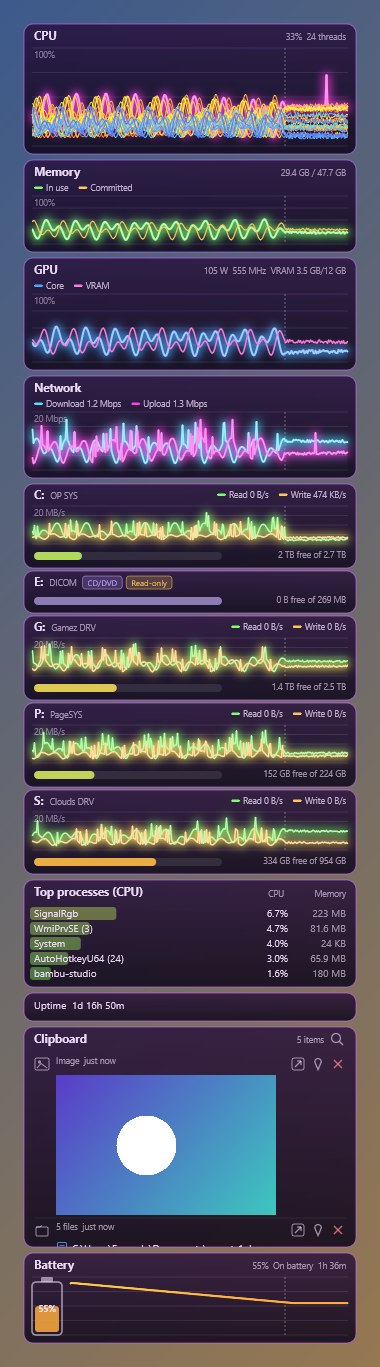
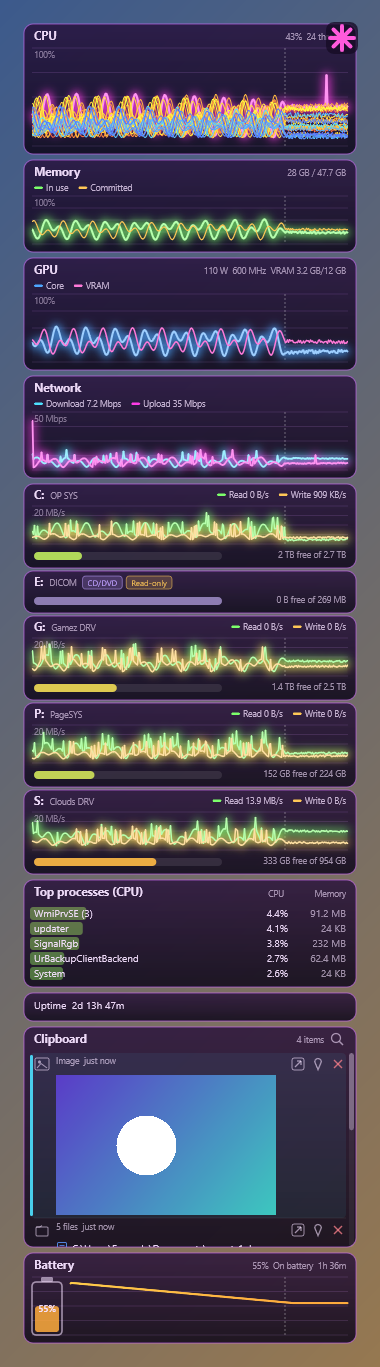
Settings gear + About page; bring README and screenshots back in sync
The widget never activates by design (WS_EX_NOACTIVATE), so Settings was
only reachable by right-clicking or relaunching the app - not discoverable.
A gear now appears at the top-right corner, overlaid on whatever panel is
first, only while the mouse is over the widget; clicking it opens Settings.
It's solid-filled and accent-coloured on purpose (bigger and more noticeable
per feedback after the first pass), unlike every other glyph in the app,
since it's a primary action rather than a status indicator.

Settings gains an About page: version (from the csproj), author, a link back
to the GitHub repo, and license.

README and both docs screenshots hadn't been touched since before the
scroll-wheel clipboard selection and this round landed - updated the
Clipboard section, the "how to reach Settings" paragraph, the Settings page
list, and the test count (83 -> 87), and regenerated both screenshots.

diff --git a/src/Glassy.App/SettingsForm.cs b/src/Glassy.App/SettingsForm.cs
@@ -1,3 +1,4 @@
+using System.Diagnostics;
 using System.Globalization;
 using Glassy.Core;
 
@@ -30,7 +31,7 @@ public sealed class SettingsForm : Form
             e.Graphics.FillRectangle(new SolidBrush(e.State.HasFlag(DrawItemState.Selected) ? Color.FromArgb(90, 50, 130) : Bg2), e.Bounds);
             TextRenderer.DrawText(e.Graphics, nav.Items[e.Index].ToString(), nav.Font, new Rectangle(e.Bounds.X + 12, e.Bounds.Y, e.Bounds.Width - 12, e.Bounds.Height), Fg, TextFormatFlags.VerticalCenter | TextFormatFlags.Left);
         };
-        nav.Items.Add("General"); foreach (var k in Kinds) nav.Items.Add(PageName(k));
+        nav.Items.Add("General"); foreach (var k in Kinds) nav.Items.Add(PageName(k)); nav.Items.Add("About");
         host.Dock = DockStyle.Fill; host.AutoScroll = true; host.BackColor = Bg;
         Controls.Add(host); Controls.Add(nav);
         nav.SelectedIndexChanged += (_, _) => ShowPage(nav.SelectedIndex);
@@ -40,15 +41,15 @@ public sealed class SettingsForm : Form
     /// <summary>Headless check (--selftest): builds every page against live data and returns how many were built.</summary>
     internal int BuildAllPages()
     {
-        for (int i = 0; i <= Kinds.Length; i++) ShowPage(i);
-        return Kinds.Length + 1;
+        for (int i = 0; i <= Kinds.Length + 1; i++) ShowPage(i);
+        return Kinds.Length + 2;
     }
 
     void ShowPage(int i)
     {
         foreach (Control c in host.Controls) c.Dispose();
         host.Controls.Clear();
-        host.Controls.Add(i == 0 ? GeneralPage() : KindPage(Kinds[i - 1]));
+        host.Controls.Add(i == 0 ? GeneralPage() : i == Kinds.Length + 1 ? AboutPage() : KindPage(Kinds[i - 1]));
     }
 
     // ------------------------------------------------------------ control helpers
@@ -159,6 +160,23 @@ public sealed class SettingsForm : Form
         stack.Controls.Add(page);
         stack.Controls.Add(Heading("General"));
         // Dock.Top stacks in reverse add order, so the heading added last ends up first.
+        return stack;
+    }
+
+    // ------------------------------------------------------------ About page
+    Control AboutPage()
+    {
+        var stack = new Panel { Dock = DockStyle.Top, AutoSize = true };
+        var t = Table();
+        var version = System.Reflection.Assembly.GetExecutingAssembly().GetName().Version;
+        Row(t, "Version", new Label { Text = version != null ? $"{version.Major}.{version.Minor}.{version.Build}" : "dev", AutoSize = true });
+        Row(t, "Author", new Label { Text = "Bart Strauss", AutoSize = true });
+        var link = new LinkLabel { Text = "github.com/SuperBartimus/GlassySystemGadget", AutoSize = true, LinkColor = Color.FromArgb(180, 140, 255) };
+        link.Click += (_, _) => { try { Process.Start(new ProcessStartInfo("https://github.com/SuperBartimus/GlassySystemGadget") { UseShellExecute = true }); } catch (System.ComponentModel.Win32Exception) { } };
+        Row(t, "GitHub", link);
+        Row(t, "License", new Label { Text = "MIT", AutoSize = true });
+        stack.Controls.Add(t);
+        stack.Controls.Add(Heading("About"));
         return stack;
     }
 

diff --git a/src/Glassy.App/D2DRenderer.cs b/src/Glassy.App/D2DRenderer.cs
@@ -51,6 +51,10 @@ public sealed class D2DRenderer : IDisposable
     public float ClipScroll { get; set; }
     public bool ClipSearchVisible { get; set; }
     public string ClipSearchQuery { get; set; } = "";
+    /// <summary>The Settings gear, top-left, overlaid on whatever panel happens to be first - only while the
+    /// mouse is over the widget (MainWindow sets this from hover state), since the widget never becomes the
+    /// active window and so has no title bar of its own to put a settings button on.</summary>
+    public bool ShowSettingsGear { get; set; }
 
     static readonly (byte r, byte g, byte b) TitleCol = (245, 225, 255);
 
@@ -165,6 +169,7 @@ public sealed class D2DRenderer : IDisposable
                 dc.PopAxisAlignedClip();
             }
             foreach (var p in e.Panels) Content(p, W, e);
+            if (ShowSettingsGear) DrawSettingsGear(W);
             dc.EndDraw();
         }
         finally { foreach (var x in geos) { x.Line?.Dispose(); x.Area?.Dispose(); } }
@@ -732,6 +737,30 @@ public sealed class D2DRenderer : IDisposable
         var center = new Vector2(cx + 6, cy + 6);
         dc.DrawEllipse(new Ellipse(center, 4.5f, 4.5f), br, 1.3f);
         dc.DrawLine(new Vector2(cx + 9.5f, cy + 9.5f), new Vector2(cx + 13, cy + 13), br, 1.5f);
+    }
+
+    static readonly (byte r, byte g, byte b) GearAccent = (255, 90, 220);
+
+    /// <summary>A solid, filled gear/sprocket (thick radial teeth + filled body), overlaid at the widget's
+    /// top-right corner - a backing plate keeps it legible over whatever panel content happens to be underneath.
+    /// Solid and accent-coloured on purpose (Bart: "make it bigger... colored/solid to make it more noticeable"),
+    /// unlike every other glyph in the app, which are all thin outlines - this one is a primary action, not a
+    /// passive status indicator, and needs to read as a button even glanced at quickly.</summary>
+    void DrawSettingsGear(float W)
+    {
+        float size = Engine.GearSize;
+        float x = W - Engine.GearMargin - size, y = Engine.GearMargin;
+        float cx = x + size / 2, cy = y + size / 2, rOuter = size / 2, rBody = rOuter - 7f;
+        dc.FillRoundedRectangle(new RoundedRectangle(new RawRectF(x - 4, y - 4, x + size + 4, y + size + 4), 8, 8), Br(20, 10, 35, 0.75f));
+        var br = Br(GearAccent);
+        for (int i = 0; i < 8; i++)
+        {
+            double a = i * Math.PI / 4;
+            var inner = new Vector2(cx + (float)(Math.Cos(a) * (rBody - 1)), cy + (float)(Math.Sin(a) * (rBody - 1)));
+            var outer = new Vector2(cx + (float)(Math.Cos(a) * rOuter), cy + (float)(Math.Sin(a) * rOuter));
+            dc.DrawLine(inner, outer, br, 4f, roundStroke);
+        }
+        dc.FillEllipse(new Ellipse(new Vector2(cx, cy), rBody, rBody), br);
     }
 
     // ponytail: a real per-extension OS icon (SHGetFileInfo -> Icon.FromHandle -> GDI+ -> premultiply -> ID2D1Bitmap

diff --git a/src/Glassy.App/MainWindow.cs b/src/Glassy.App/MainWindow.cs
@@ -28,6 +28,7 @@ public sealed class MainWindow : Form
     };
     float clipScroll;
     bool clipSearchVisible;
+    bool hoveringWidget;
 
     public MainWindow(AppConfig cfg, string cfgPath)
     {
@@ -195,6 +196,7 @@ public sealed class MainWindow : Form
         {
             renderer.Resize(cfg.Global.Width, engine.TotalHeight, DeviceDpi / 96f);
             renderer.ClipScroll = clipScroll; renderer.ClipSearchVisible = clipSearchVisible; renderer.ClipSearchQuery = clipSearch.Text;
+            renderer.ShowSettingsGear = hoveringWidget;
             renderer.Render(engine, cfg.Global);
             renderer.CopyTo(bits);
             if (!Present() && !presentLogged) { presentLogged = true; AppLog.Write($"UpdateLayeredWindow failed, Win32 error {Marshal.GetLastWin32Error()}"); }
@@ -219,9 +221,25 @@ public sealed class MainWindow : Form
     protected override void OnMouseDown(MouseEventArgs e)
     {
         base.OnMouseDown(e);
+        if (e.Button == MouseButtons.Left && hoveringWidget && GearHit(e.Location)) { OpenSettings(); return; }
         if (e.Button == MouseButtons.Left && HandleClipboardClick(e.Location)) return;
         if (e.Button != MouseButtons.Left || cfg.Global.LockPosition || cfg.Global.Dock != DockEdge.None) return;
         dragging = true; dragStart = Cursor.Position; posStart = pos; Capture = true;
+    }
+
+    /// <summary>The widget never becomes the active window (it's WS_EX_NOACTIVATE on purpose - see the scroll-
+    /// selection feature), so there's no title bar to put a Settings button on. Instead a gear appears at the
+    /// top-left corner, overlaid on whatever panel happens to be first, only while the mouse is actually over the
+    /// widget - discoverable without needing a permanent icon competing with the panels for attention.</summary>
+    protected override void OnMouseEnter(EventArgs e) { base.OnMouseEnter(e); hoveringWidget = true; RenderFrame(); }
+    protected override void OnMouseLeave(EventArgs e) { base.OnMouseLeave(e); hoveringWidget = false; RenderFrame(); }
+
+    bool GearHit(Point physical)
+    {
+        float s = DeviceDpi / 96f; float dipX = physical.X / s, dipY = physical.Y / s;
+        float x = cfg.Global.Width - Engine.GearMargin - Engine.GearSize;
+        return dipX >= x && dipX < x + Engine.GearSize
+            && dipY >= Engine.GearMargin && dipY < Engine.GearMargin + Engine.GearSize;
     }
 
     /// <summary>The items currently shown and their measured row heights - reads the renderer's own cache, so

diff --git a/src/Glassy.App/Program.cs b/src/Glassy.App/Program.cs
@@ -109,7 +109,7 @@ static class Program
         var demoBattery = demo ? new FakeBatteryProvider { Value = new BatteryStatus { Present = true, Charging = false, OnAc = false, Percent = 55, TimeRemaining = TimeSpan.FromHours(1.6) } } : null;
         using var engine = new Engine(cfg, configPath: cfgPath, battery: demoBattery); using var r = new D2DRenderer(ForceWarp);
         for (int i = 0; i < 6; i++) { engine.Tick(); Thread.Sleep(cfg.Global.TickMs); }
-        if (demo) { engine.DemoFill(); DemoFillClipboard(engine); }
+        if (demo) { engine.DemoFill(); DemoFillClipboard(engine); r.ShowSettingsGear = true; }   // showcase the hover-only Settings gear in demo shots
         r.Resize(cfg.Global.Width, engine.TotalHeight, scale); r.Render(engine, cfg.Global);
         IntPtr buf = Marshal.AllocHGlobal(r.PxW * r.PxH * 4);
         try

diff --git a/src/Glassy.Core/Engine.cs b/src/Glassy.Core/Engine.cs
@@ -27,6 +27,8 @@ public sealed class PanelRuntime
 public sealed class Engine : IDisposable
 {
     public const float PanelGap = 6, SectionGap = 3, Margin = 4, RowProc = 15, Header = 26, LegendRowH = 12, DriveHeader = 22, DriveBar = 16;
+    /// <summary>The Settings gear overlay, top-right corner of the widget - independent of any one panel's own layout.</summary>
+    public const float GearSize = 24, GearMargin = 6;
     public const float ClipHeader = 26, ClipIcon = 16, ClipIconTopPad = 3, ClipMinHeight = 90;
     /// <summary>Row layout, top to bottom: the icon strip (badge + type/age text + open/pin/delete, ClipIconTopPad
     /// to ClipBodyTop), then the wrapped-text/file-list/image body (ClipLineH per line, or an image's scaled

diff --git a/README.md b/README.md
@@ -31,14 +31,20 @@ Panels (each its own graph group, reorderable, individually switchable):
 - Clipboard: a scrollable history of what you copy (text, formatted text, images,
   file paths from cut/copy in Explorer), newest first, with search, per-item pin
   and delete, and a button per row to open the item in whatever app the OS has
-  associated with its type. Click a row to put it back on the clipboard (you
-  still press Ctrl+V yourself; nothing types into another window for you).
-  Captured items are excluded automatically when the source app marks them
-  "exclude from clipboard history" (most password managers do this). Text
-  wraps across multiple lines (word-wrapped, ending in `…` if it still
-  overflows the per-panel line cap); a file list shows each path word-wrapped
-  on its own lines with a small tinted type glyph, using the row's full width;
-  an image shows an actual scaled thumbnail.
+  associated with its type. Hover the panel and scroll - no click, no bringing
+  the widget to the foreground - to move a persistent selection one row at a
+  time; each row you land on is immediately restored to the OS clipboard (you
+  still press Ctrl+V yourself; nothing types into another window for you). The
+  clip currently on the clipboard is marked with a coloured accent bar, and a
+  new capture auto-selects itself and jumps the list to the top. A row can
+  still be clicked directly, and a configurable scrollbar (0 hides it) shows
+  where you are in a long history. Captured items are excluded automatically
+  when the source app marks them "exclude from clipboard history" (most
+  password managers do this). Text wraps across multiple lines (word-wrapped,
+  ending in `…` if it still overflows the per-panel line cap); a file list
+  shows each path word-wrapped on its own lines with a small tinted type
+  glyph, using the row's full width; an image shows an actual scaled
+  thumbnail.
 
 Memory, GPU, Network and the drive graphs carry a tiny legend of the lines that
 are switched on (network and drives include the current values).
@@ -86,9 +92,11 @@ apphost). Do not enable `UseAppHost`. To rebuild, exit the widget first (right
 click, Exit): a running widget locks the DLLs.
 
 Config lives in `%AppData%\GlassySystemGadget\config.json` (created on first
-exit or first settings change). Launching the app a second time opens Settings
-in the running widget. Right-click the widget for Settings, Lock position,
-Reset position and Exit.
+exit or first settings change). Hover the widget and a settings gear appears
+in the top-right corner (the widget deliberately never takes focus, so this
+is the discoverable way in without right-clicking). Launching the app a
+second time also opens Settings in the running widget. Right-click the widget
+for Settings, Lock position, Reset position and Exit.
 
 ## Settings
 
@@ -102,9 +110,11 @@ Reset position and Exit.
   show-activity / show-space-bar switches; Top processes adds rows, sort and the
   percentage at which the bar is full and red (default 25% of total CPU);
   Clipboard adds items kept, image size cap, capture sound (system or a .wav you
-  pick), restore-last-item-on-startup, whether the search box starts open, and a
-  "clear history (keep pinned)" button; Battery adds only which side its glyph
-  sits on (no show/hide - see Known limits).
+  pick), restore-last-item-on-startup, whether the search box starts open,
+  scroll bar width (0 hides it), and a "clear history (keep pinned)" button;
+  Battery adds only which side its glyph sits on (no show/hide - see Known
+  limits).
+- About: version, author and a link back to this repo.
 - Changing a graph's durations or split restarts that graph's history.
 
 ## Build And Test
@@ -113,7 +123,7 @@ Reset position and Exit.
 dotnet test GlassySystemGadget\tests\Glassy.Tests -c Release
 ```
 
-83 tests: ring/bucket maths, config round trip, corrupt-file recovery and
+87 tests: ring/bucket maths, config round trip, corrupt-file recovery and
 migration (of the old disk panels, and to add the Clipboard and Battery panels
 to a config that predates them), the raw NtQuerySystemInformation offsets
 (checked against this process, including a buffer-growth regression this
@@ -122,10 +132,11 @@ quoting, the load and discharge colour ramps, clipboard classification and
 storage (dedup, pin, trim, search, blob round trip - synthetic clipboard data
 only, plus one real OS-clipboard round trip on its own STA thread that saves
 and restores whatever was actually on the clipboard), the clipboard row/icon
-hit-test math over variable row heights (mutation-tested), and the engine's
-handling of drives, adapters, the clipboard store and the battery (a fake
-provider, since the dev machine is a desktop with none) all appearing and
-changing live. Headless checks of the app itself:
+hit-test math over variable row heights (mutation-tested), the scroll-to-
+selection and scrollbar geometry, and the engine's handling of drives,
+adapters, the clipboard store and the battery (a fake provider, since the dev
+machine is a desktop with none) all appearing and changing live. Headless
+checks of the app itself:
 
 ```powershell
 dotnet ...\Glassy.App.dll --config $env:TEMP\t.json --shot out.png --demo   # render one frame to PNG
